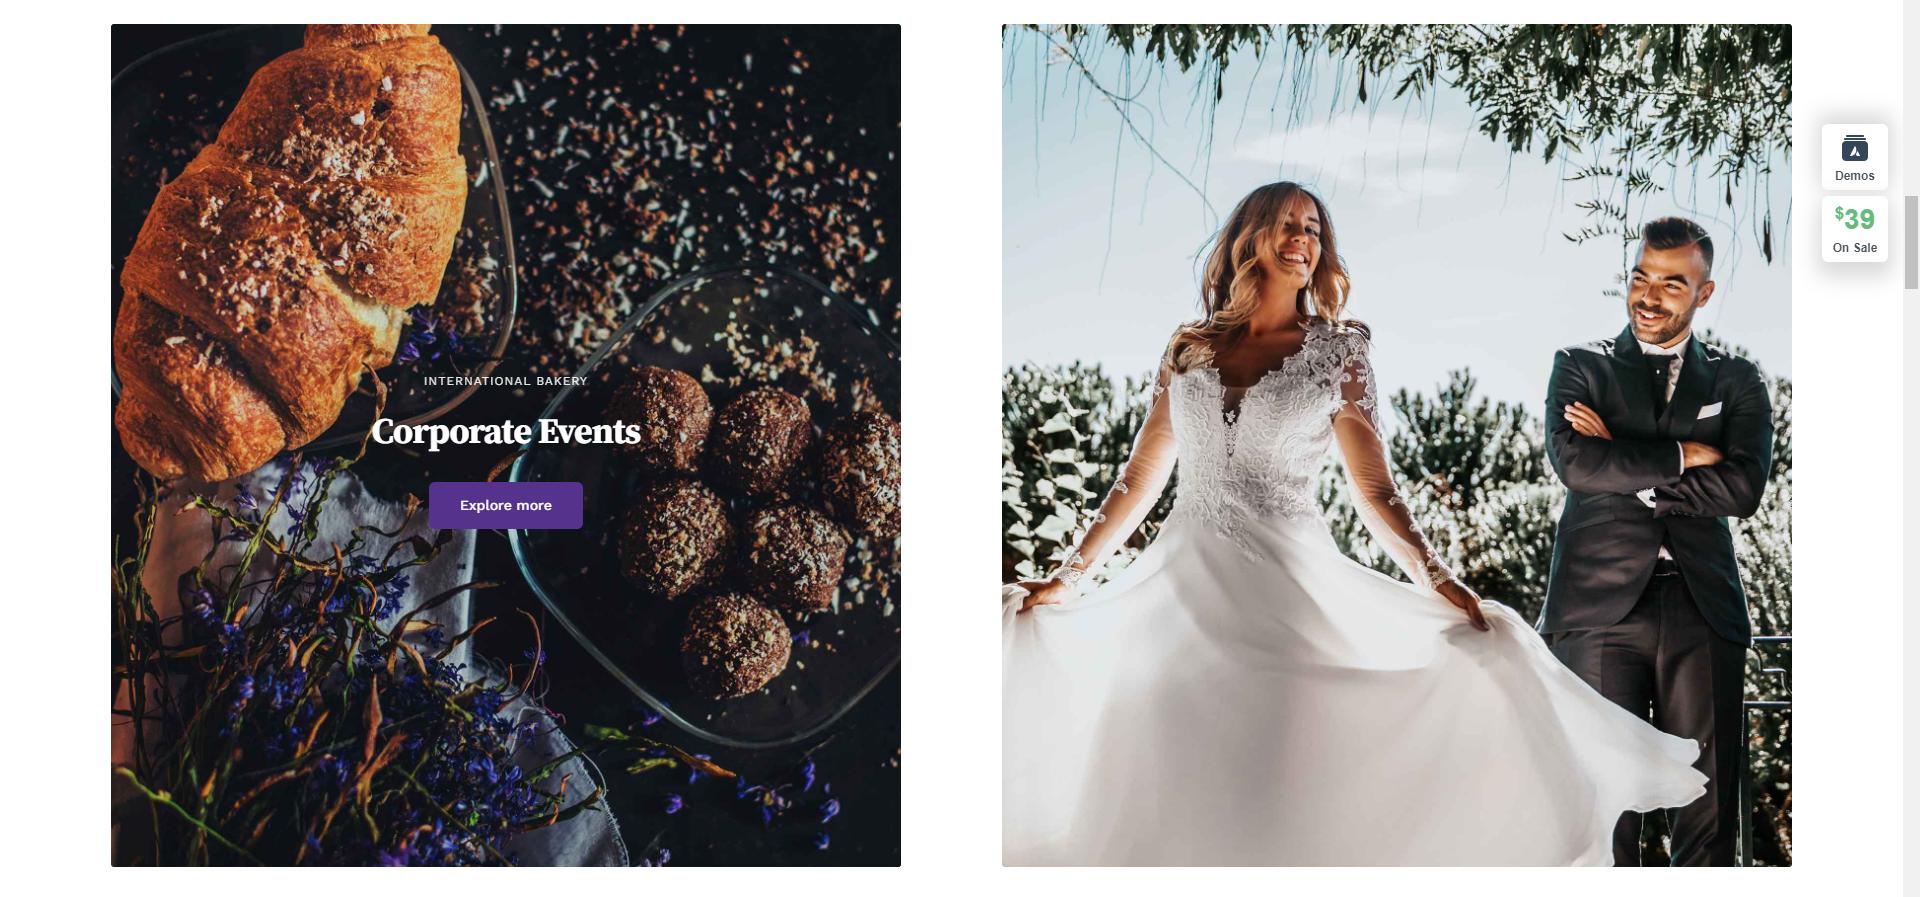
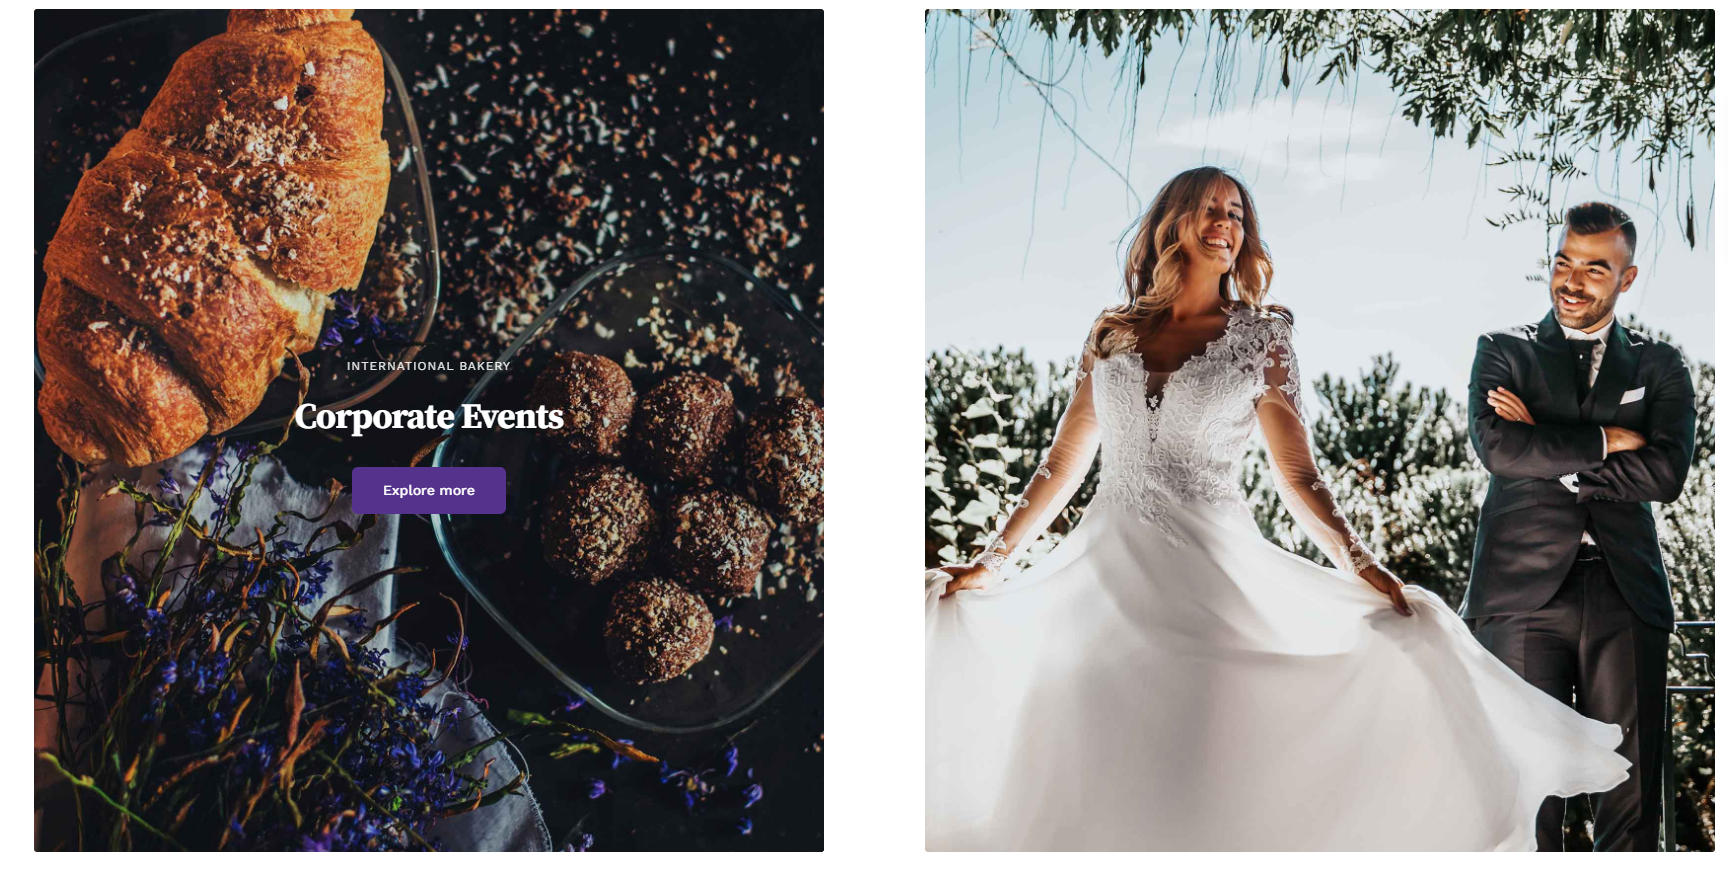
Fine main statico senza stilizzazione

diff --git a/src/components/MyMain.vue b/src/components/MyMain.vue
@@ -23,9 +23,7 @@
             <span>CORPORATE E WEDDINGS</span>
             <p>Baking Special Moments</p>
         </div>
-        <div class="img-second-part">
-          <img class="w-100" src="../assets/hover-img1.png" alt="">
-        </div>
+        <img class="w-100" src="../assets/hover-img1.png" alt="">
   </div>
        <!-- fine seconda parte main statico -->
        <!-- inizio terza parte main statico -->
@@ -74,7 +72,7 @@
           </div>
             <!-- inizio quinta parte main statico -->
           <div class="ms_container-80 ms_container mb-3">
-            <div class="img-left-quinta-parte background-img-bread h-100 p-5">
+            <div class="img-left-quinta-parte background-img-bread-3 h-100 p-5">
                 <div class="top-text-01">
                   <div class="text-left">
                     <p>Tell us what you have in ming</p>
@@ -98,7 +96,7 @@
           </div>
               <!--fine quinta parte main statico -->
               <!-- inizio sesta parte main statico -->
-          <div class="ms_container-80 background-img-bread-2 mb-3 p-5 text-white">
+          <div class="ms_container-80 background-img-bread-2 p-5 text-white">
                <div class="top-text-01">
                   <div class="text-left">
                     <p>Tell us what you have in ming</p>
@@ -113,6 +111,96 @@
                 </div>
           </div>
           <!-- fine sesta parte main statico -->
+          <!-- inizio settima parte main statico -->
+          <div class="ms_container-80-2 text-center mt-5 py-5">
+            <span>LOCATIONS</span>
+            <p class="pt-5">Visit our Bakeries</p>
+            <div class="ms_container">
+              <div class="img-left">
+                <img class="w-100" src="../assets/pexels-daria-shevtsova-1070946.jpg" alt="">
+                <p class="py-4">New York</p>
+                <div class="px-5 w-100 d-flex align-items-center justify-content-between" >
+                  <div>
+                    <span>wewe</span>
+                    <p>wewe</p>
+                  </div>
+                  <div>
+                    <span>wewe</span>
+                    <p>wewe</p>
+                  </div>
+                  <div>
+                    <span>wewe</span>
+                    <p>wewe</p>
+                  </div>
+                </div>
+
+                </div>
+                <div class="img-right">
+                  <img class="w-100" src="../assets/pexels-annam-w-1047458.jpg" alt="">
+                   <p class="py-4">New York</p>
+                <div class="px-5 w-100 d-flex align-items-center justify-content-between" >
+                    <div>
+                      <span>wewe</span>
+                      <p>wewe</p>
+                    </div>
+                    <div>
+                      <span>wewe</span>
+                      <p>wewe</p>
+                    </div>
+                    <div>
+                      <span>wewe</span>
+                      <p>wewe</p>
+                    </div>
+                </div>
+                </div>
+            </div>
+
+          </div>
+          <!-- fine settima parte main statico -->
+          <!-- inizio ottava parte main statico -->
+           <div class="ms_container-80 ms-container mt-5">
+            <div class="img-top-part">
+              <div class="ms_float-23">
+                <img class="w-100" src="../assets/img-ottava-parte/pexels-anna-shvets-5964505.jpg" alt="">
+
+              </div>
+              <div class="ms_float-46 d-flex flex-column justify-content-center align-items-center">
+                <span></span>
+                <p>wewe</p>
+                <button></button>
+
+              </div>
+              <div class="ms_float-23">
+                <img class="w-100" src="../assets/img-ottava-parte/pexels-katerina-holmes-5910791.jpg" alt="">
+              </div>
+            </div>
+            <div class="img-bottom-part">
+              <div class="ms_float-23">
+                <img class="w-100" src="../assets/img-ottava-parte/pexels-meruyert-gonullu-6152263.jpg" alt="">
+              </div>
+             <div class="ms_float-23">
+               <img class="w-100" src="../assets/img-ottava-parte/pexels-elle-hughes-5764066.jpg" alt="">
+              </div>
+              <div class="ms_float-23">
+                <img class="w-100" src="../assets/img-ottava-parte/pexels-gustavo-fring-7447284.jpg" alt="">
+              </div>
+              <div class="ms_float-23">
+                <img class="w-100" src="../assets/img-ottava-parte/pexels-tara-winstead-6479556.jpg" alt="">
+              </div>
+            </div>
+
+          </div>
+          <!-- fine ottava parte main statico -->
+          <!-- inizio nona parte main statico -->
+          <div class="background-img-bread-3 mt-5 mb-5">
+            <div class="w-50 h-100 d-flex flex-column justify-content-center align-items-center">
+              <span>wewe</span>
+              <p>wewe</p>
+              <button>wewe</button>
+            </div>
+          </div>
+          <!-- fine nona parte main statico -->
+
   </main>
 </template>
 
@@ -183,6 +271,7 @@ export default {
        margin: 20px 0px;
     }
   }
+
 
 
    /*fine seconda parte del main in maniera statica */
@@ -275,6 +364,38 @@ export default {
 
      /* fine quinta parte main statica */
 
+     /* inizio settima parte main statica */
+     .img-left{
+       width: 50%;
+       float: left;
+     }
+     .img-right{
+       width: 50%;
+       float: left;
+     }
+     /* fine settima parte main statica */
+     /* inizio ottava parte main statico */
+
+     .ms_float-23{
+       float: left;
+       width: calc(100% / 4 - 20px);
+       margin: 0px 10px;
+     }
+     .ms_float-46{
+       width: calc(100% / 2 - 20px);
+       margin: 0px 10px;
+       float: left;
+       background-color: rgb(238, 231, 231);
+       height: 96%;
+     }
+     .img-top-part{
+       height: 250px;
+     }
+
+     /* fine ottava parte main statico */
+     /* inizio nona parte main statico */
+     /* fine nona parte main statico */
+
    /* inizio generale del main */
 
   .ms_container::after{
@@ -292,6 +413,10 @@ export default {
     height: 500px;
     margin: 0 auto;
   }
+  .ms_container-80-2{
+    width: 80%;
+    margin: 0 auto;
+  }
   .background-img-bread{
     background-image: url('../assets/pexels-karolina-grabowska-4495761.jpg');
     background-size: cover;
@@ -300,5 +425,16 @@ export default {
     background-image: url('../assets/pexels-pixabay-209196.jpg');
     background-size: cover;
     background-position-y: -7em;
+  }
+  .background-img-bread-3{
+    background-image: url('../assets/pexels-antoni-shkraba-5852247.jpg');
+    background-size: cover;
+    background-position-y: -7em;
+  }
+  .background-img-bread-3{
+    background-image: url('../assets/pexels-marta-dzedyshko-7693958.jpg');
+    background-size: cover;
+    background-position: bottom;
+    height: 400px;
   }
 </style>

diff --git a/src/components/MyHeader.vue b/src/components/MyHeader.vue
@@ -4,6 +4,7 @@
         <!-- creazione menu con logo a sinistra e menu a destra -->
         <div class="ms_container">
             <div class="logo-header">
+                <img class="h-100 w-100" src="../assets/bakery-logo.jpg" alt="">
                 
             </div>
             <div class="menu-header">
@@ -86,7 +87,6 @@ header{
                         float: left;
                         width: 15%;
                         height: 100%;
-                        background-color: black;
                     }
                     .menu-header{
                         float: right;
@@ -137,8 +137,11 @@ header{
                 .right-jumbotron{
                     width: 77%;
                     float: right;
-                    background-color: black;
+                    background-image: url('../assets/pexels-maria-orlova-4916562.jpg');
+                    background-size: cover;
+                    background-position: bottom;
                     height: 100%;
+                    border-radius: 10px;
                 }
             }
 }
